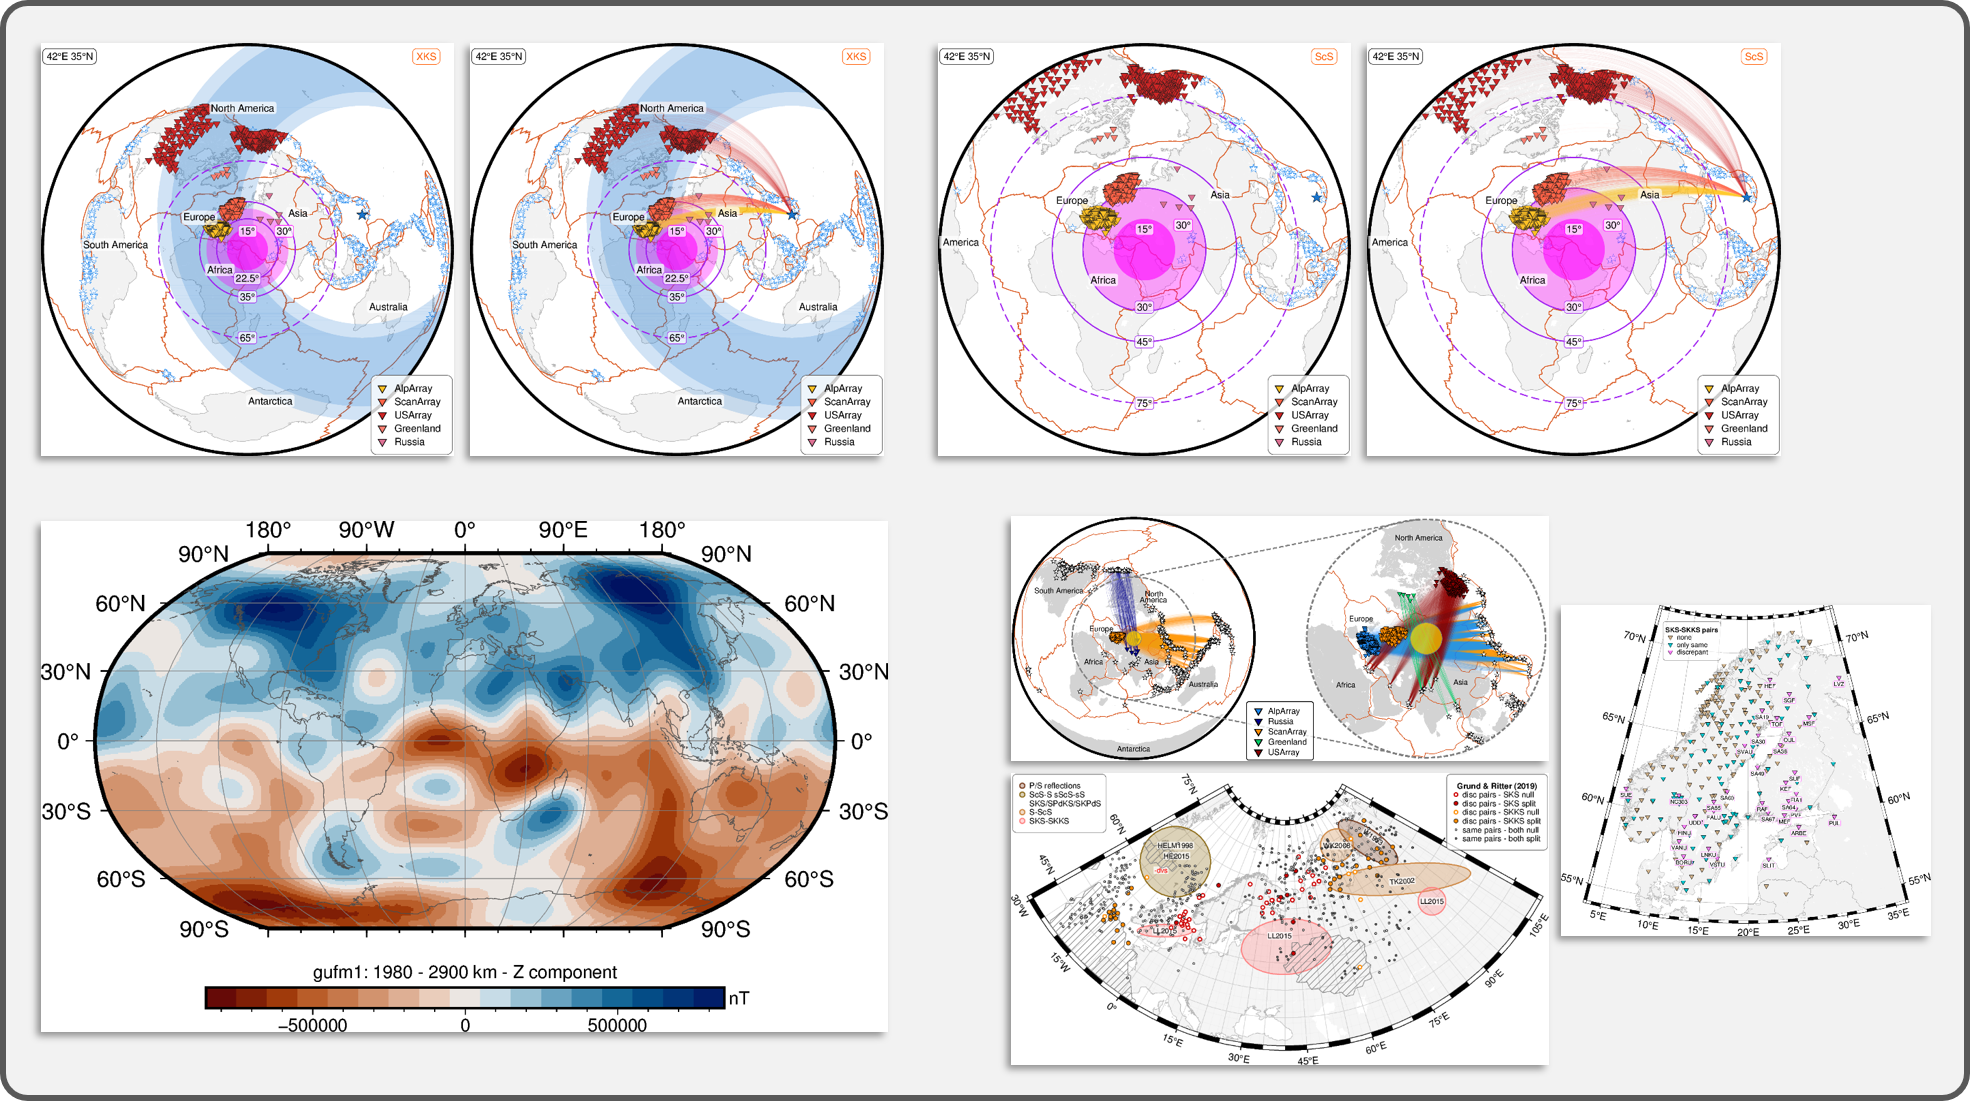
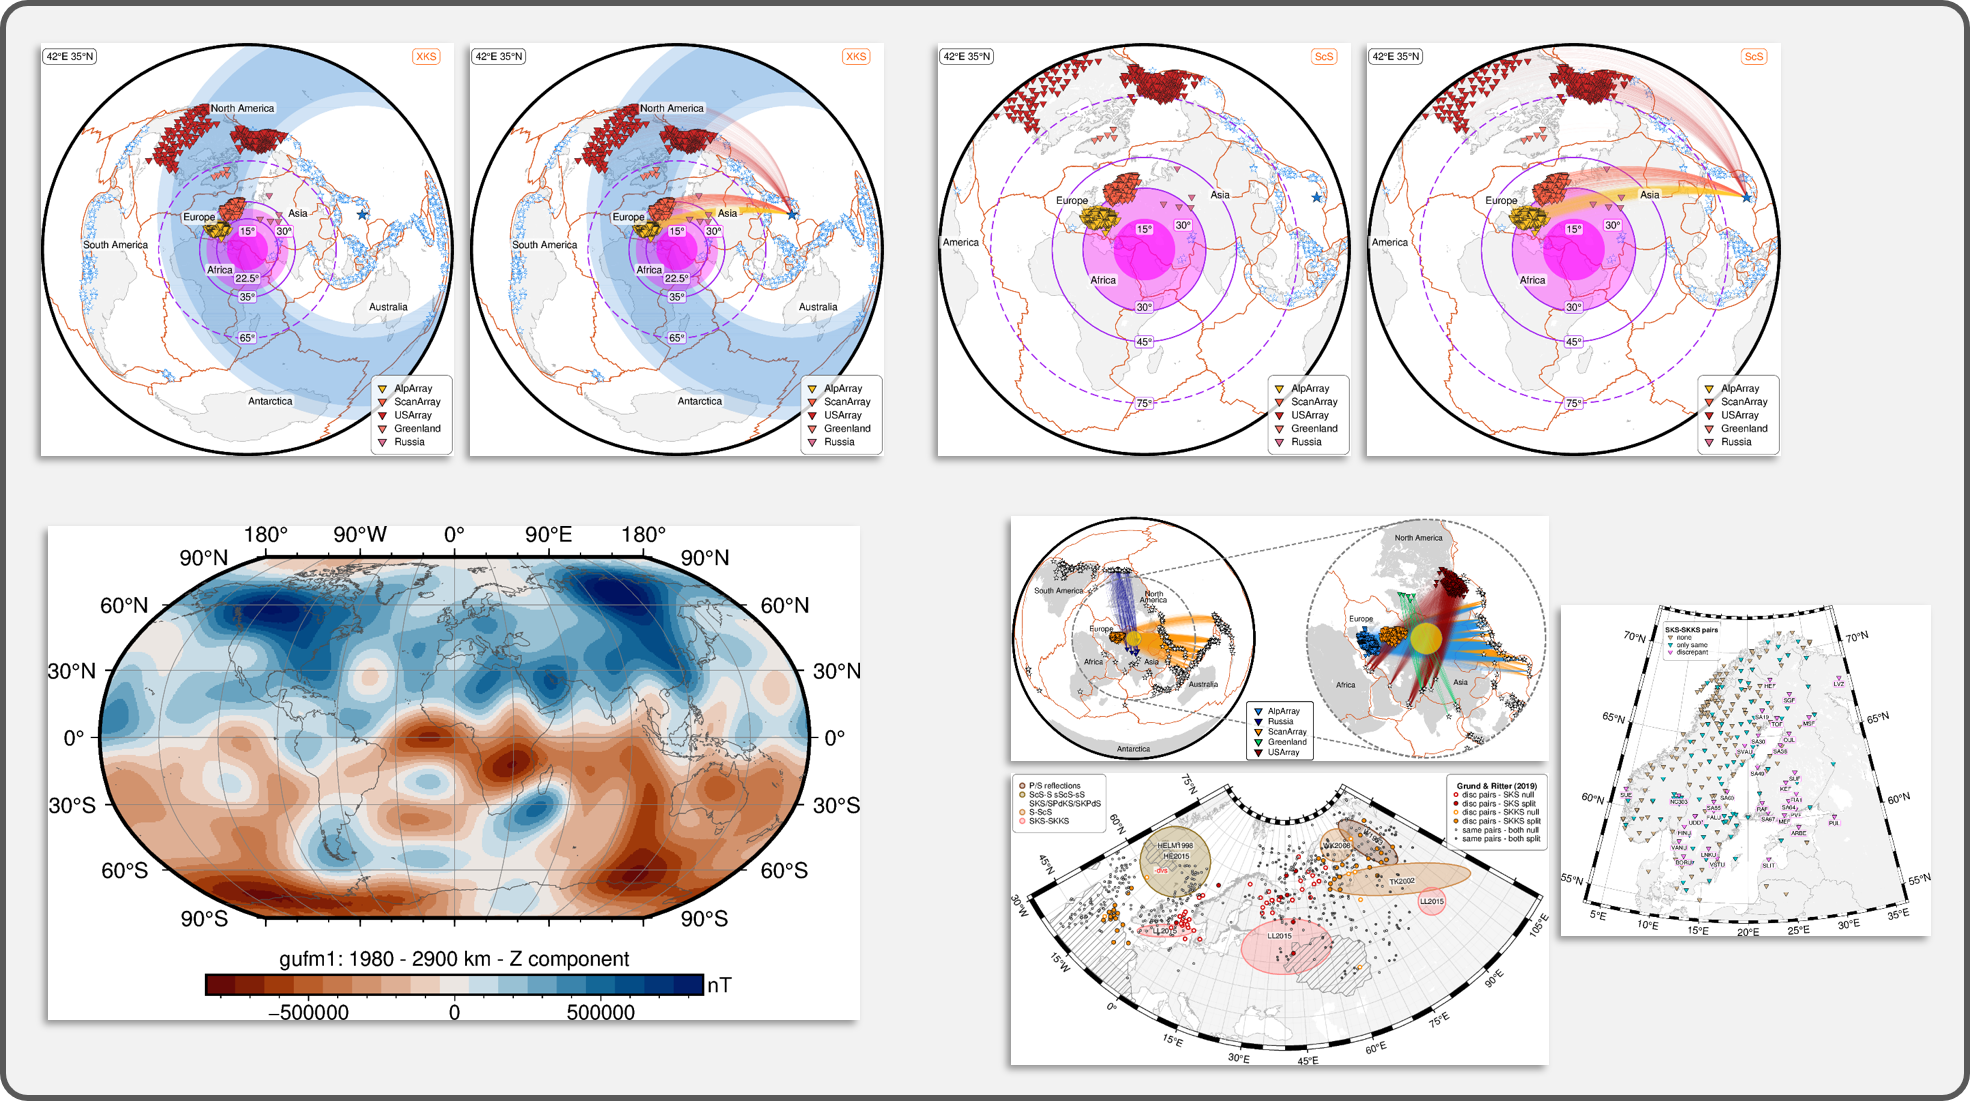
Increase font size

Changed region(s): [[0.0, 0.4632, 0.4645, 0.9573]]

diff --git a/009_deepdyn/02_gufm1/map_gufm1_1980_2900km.py b/009_deepdyn/02_gufm1/map_gufm1_1980_2900km.py
@@ -55,7 +55,7 @@ gmt.makecpt(cmap="vik", series=[-z_lim, z_lim, z_step], reverse=True)
 
 fig.grdimage(grid=f"{path_in}/gufm1_1980_2900km_Z.grd", cmap=True)
 
-with gmt.config(FONT="10p"):
+with gmt.config(FONT="12p"):
     fig.colorbar(
         frame=["xaf+lgufm1: 1980 - 2900 km - Z component", "y+lnT"],
         position="JBC+o0c/0.8c+h+w7c+ml",
